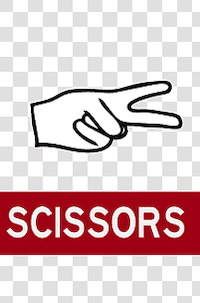
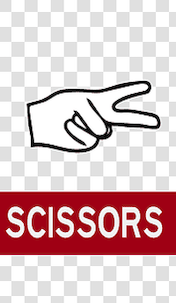
change image sizes for uniformity in game play

diff --git a/assets/css/style.css b/assets/css/style.css
@@ -87,14 +87,14 @@ footer {
 }
 #player-image {
     width: 45%;
-    background-size:cover;
-    height:auto;
+  
+  
 
 }
 
 #computer-image {
     width: 45%;
-    background-size:cover ;
-    height:auto;
+  
+    
 }
 
